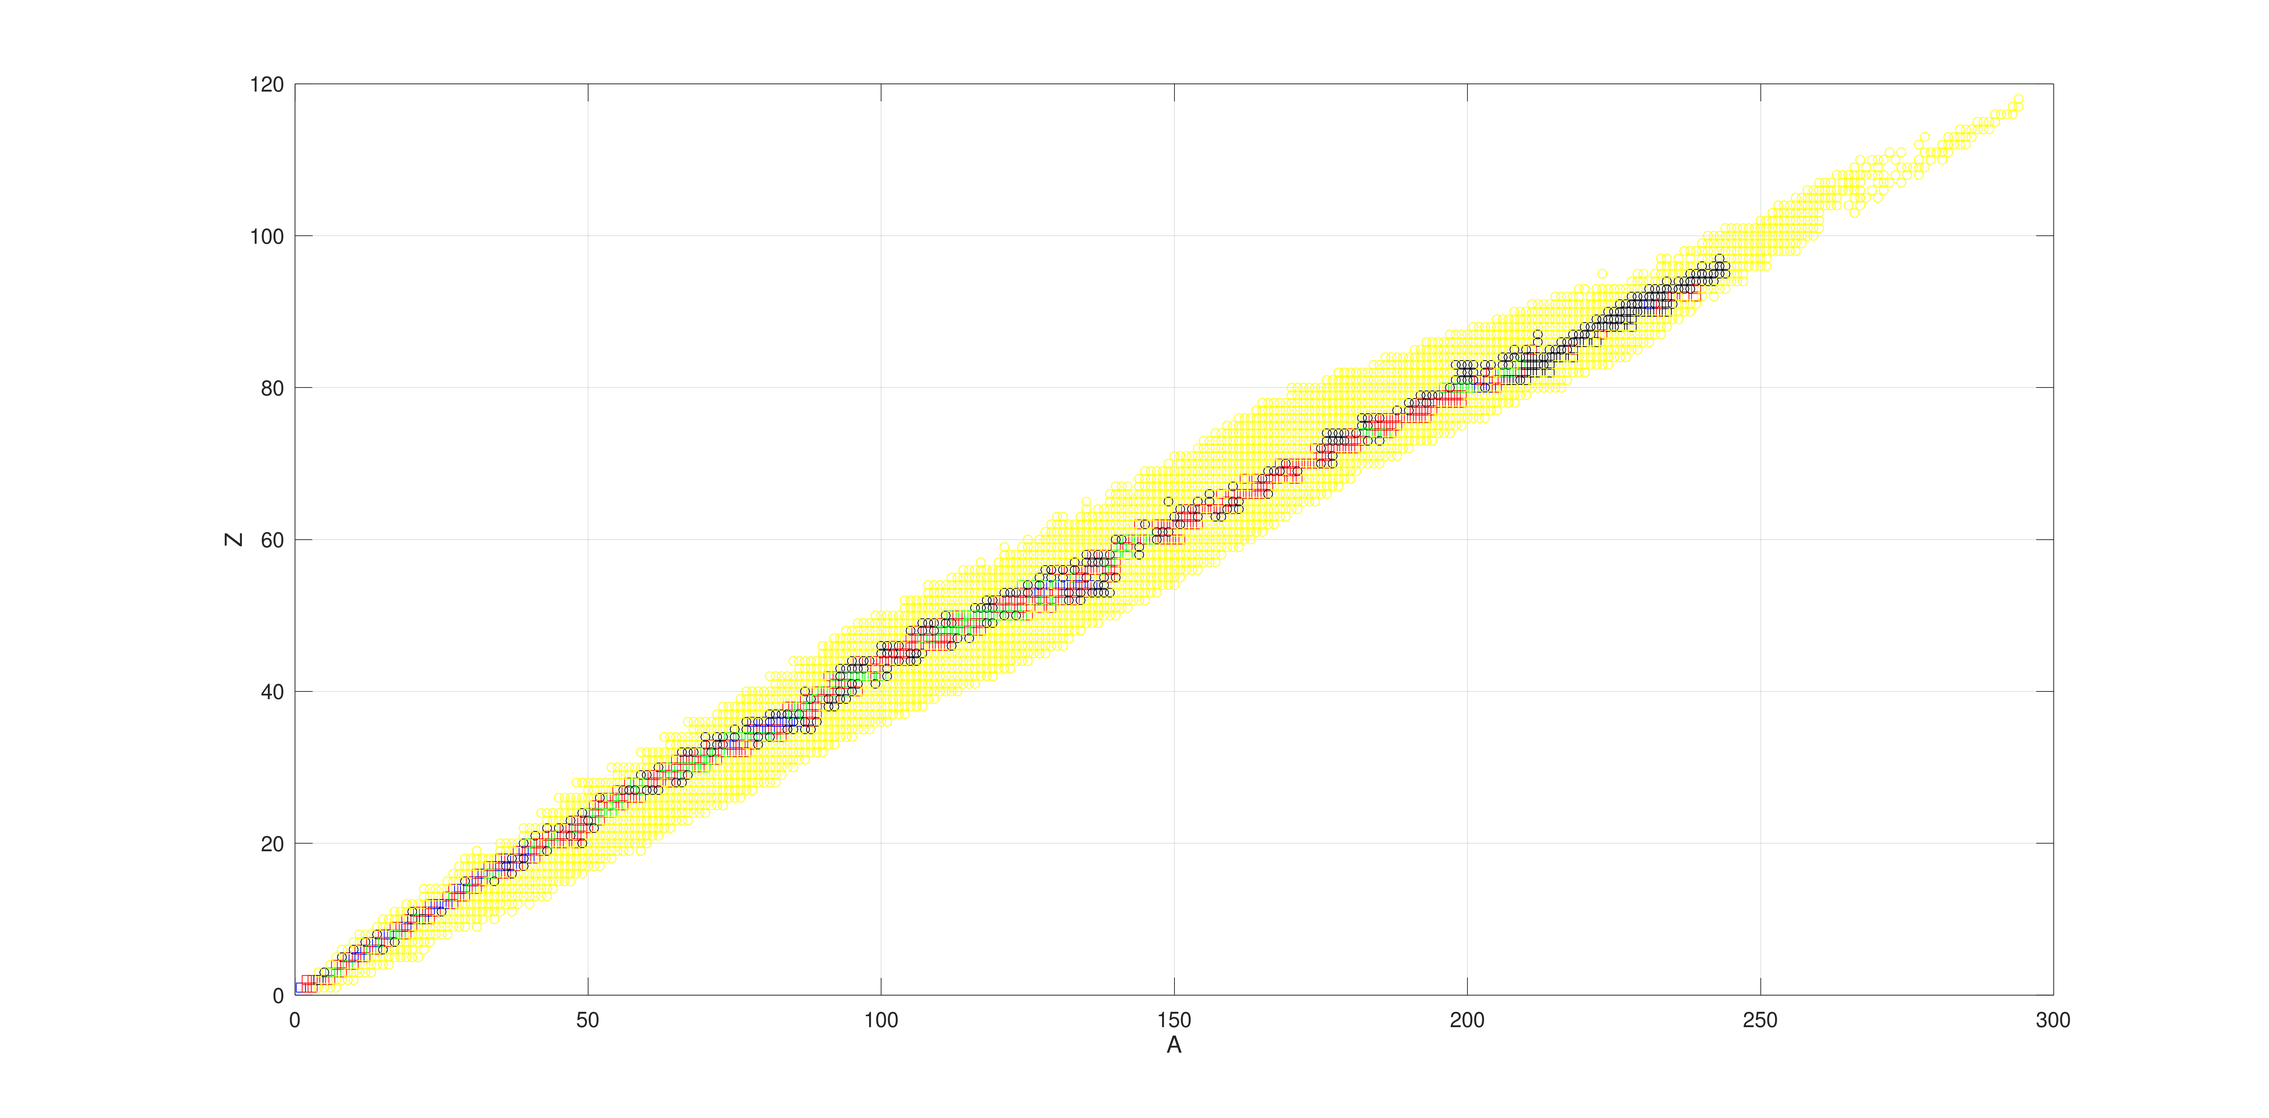
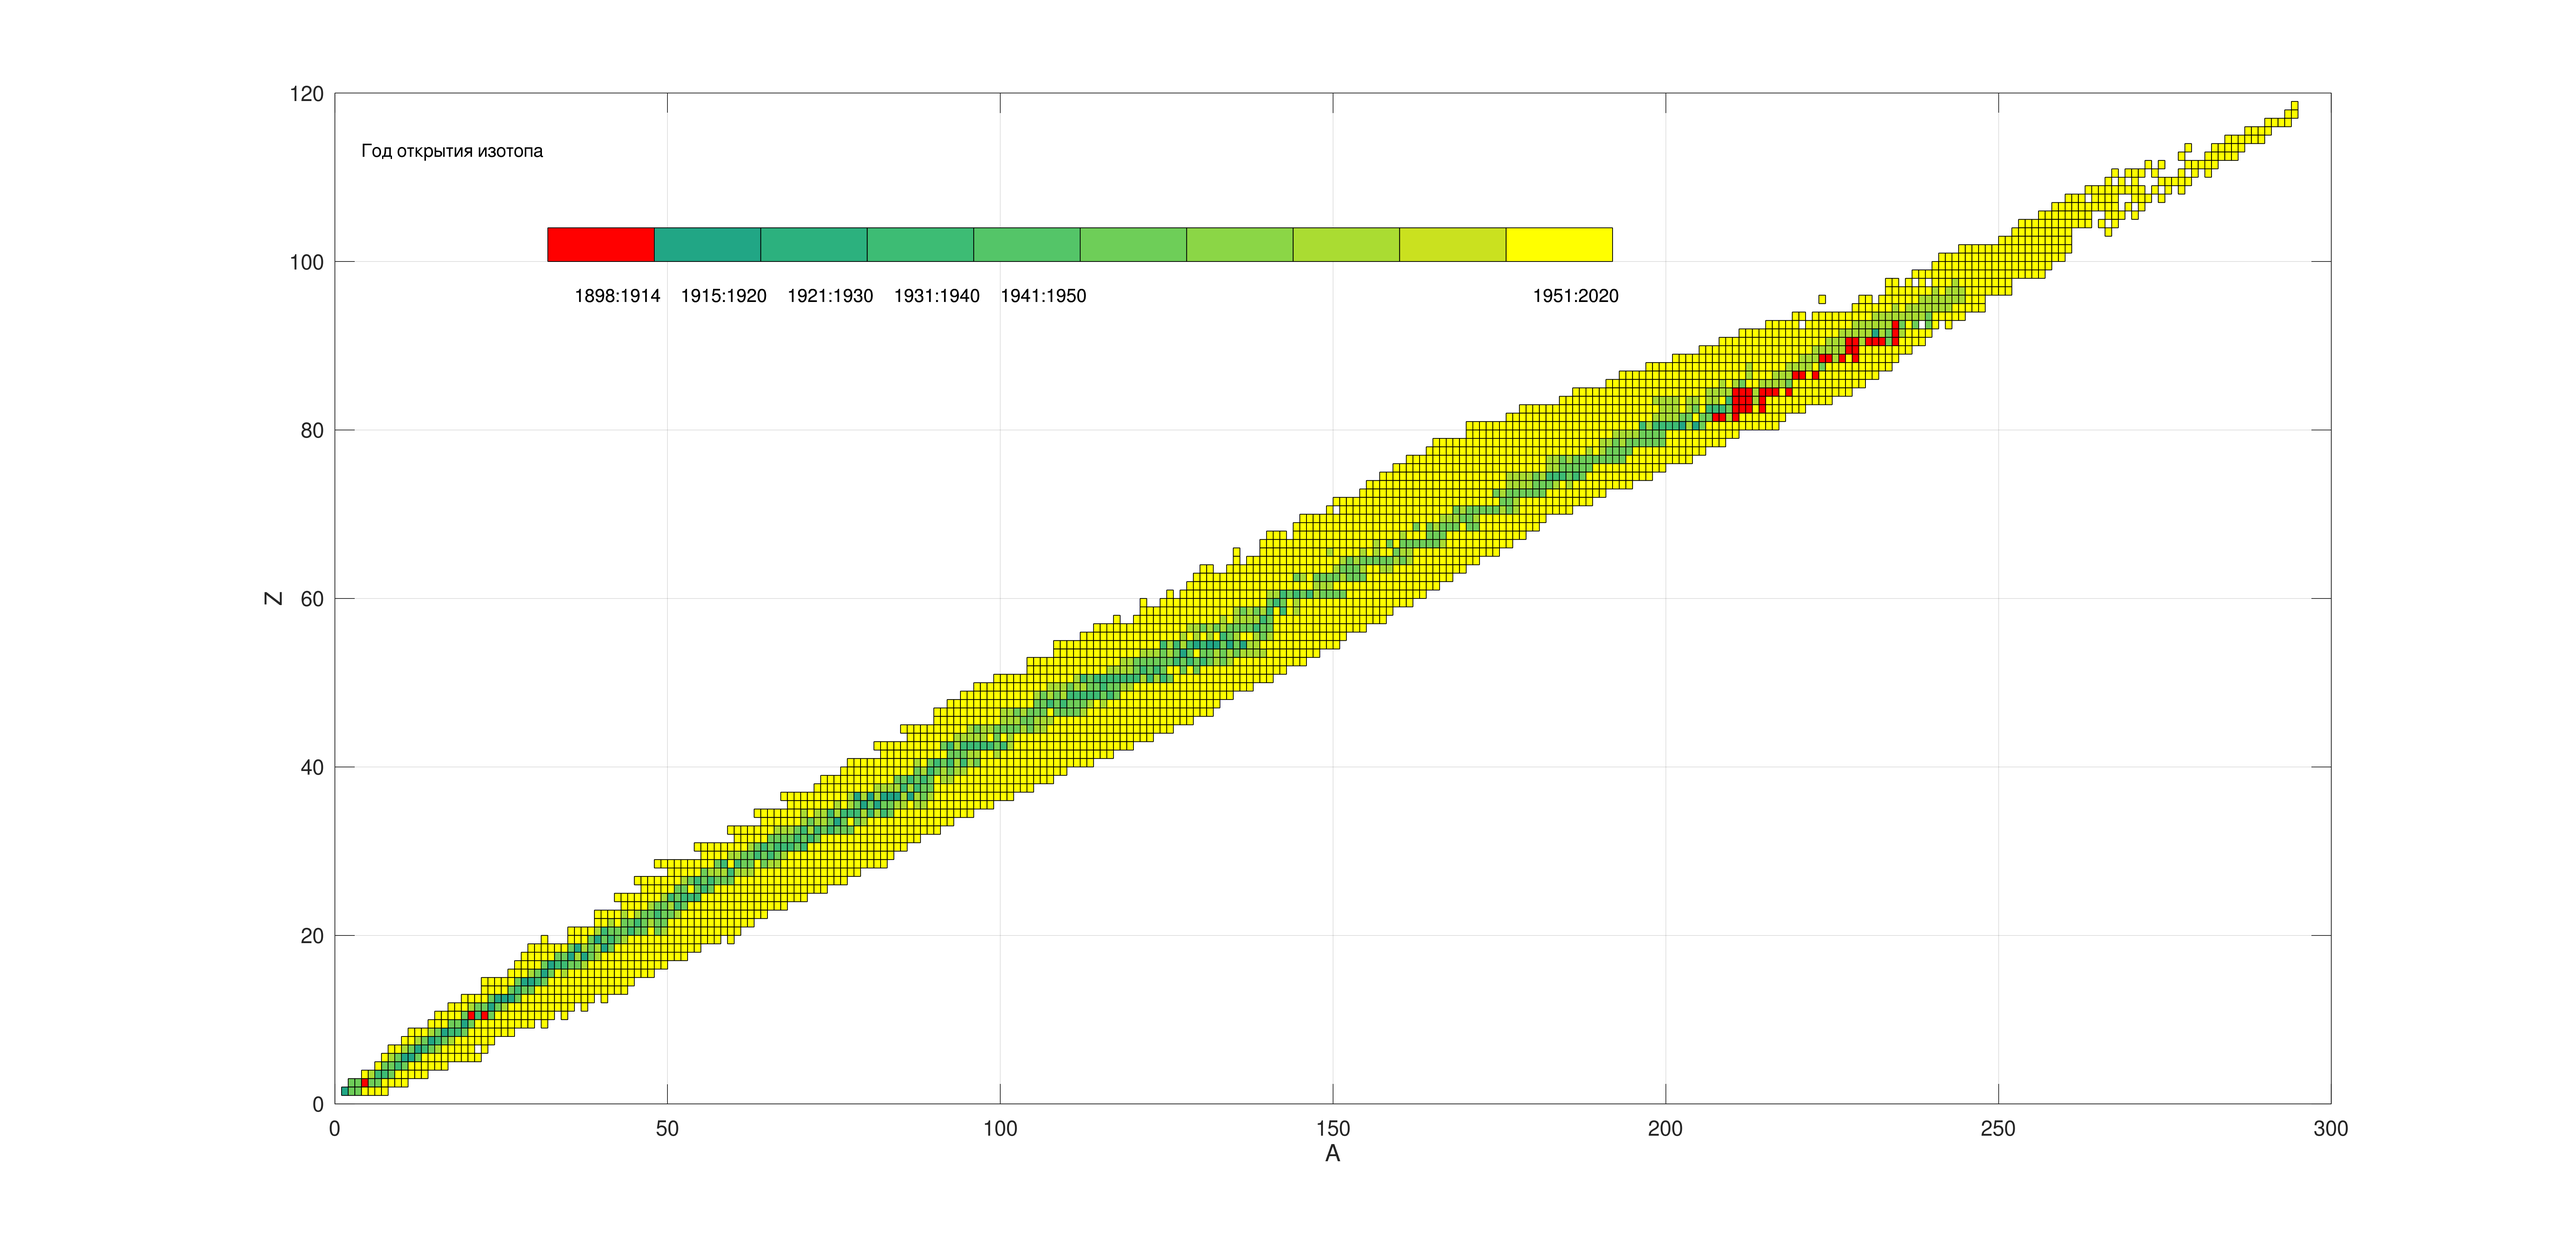
Add files via upload

diff --git a/DiscoveryYearLegend.m b/DiscoveryYearLegend.m
@@ -1,0 +1,186 @@
+% 2025-12-29
+% DiscoveryYearLegend
+% for GetDiscoveryYear.m
+##FirstYY = [1898:1914]
+##YY1910 = [1915:1920]
+##YY1920 = [1921:1930]
+##YY1930 = [1931:1940]
+##YY1940 = [1941:1950]
+##YY1950 = [1951:2020]
+%%%%%%%%%%%%%%%%%%%%%%%%%%%%%% plot Properties %%%%%%%%%%%%%%%%%%%%%%%%%%%%%%%%
+
+gradeNo = 10
+step = fix(length(viridis)/ gradeNo /2)
+ColorArrayAll = viridis;
+ColorArray= zeros(gradeNo,3);
+for ii = 1:gradeNo
+  argcolor = fix(length(viridis) /2) + ii*step;
+  ColorArray(ii,:) = ColorArrayAll(argcolor,:);
+end
+
+
+%
+stepxx = 4*4
+stepyy = 4*4
+
+% 2025-10-21
+LinesTableMax=10
+ElemPeriodChemical = 18
+% Table Size
+maxXX = LinesTableMax*stepxx
+maxYY = 100 %ElemPeriodChemical*stepyy
+%
+
+
+
+
+figure
+hold on
+%%%%%%%%%%%%%%%%%%%% Color Legend %%%%%%%%%%%%%%%%%%%%%%%%%%%%%%%%%%%%%%%%%%%%%
+ww = 4*4
+hh = 4
+
+ccbase = 1
+
+ii = 1
+  cc = ccbase + ii
+    yy = maxYY
+    xx = cc*stepyy
+    h = rectangle('Position', [xx yy ww hh]);
+    ColorNow = [1 0 0];
+    set (h, "FaceColor", ColorNow);
+
+for ii = 2:9
+  cc = ccbase + ii
+    yy = maxYY
+    xx = cc*stepyy
+    h = rectangle('Position', [xx yy ww hh]);
+    ColorNow = ColorArray(ii,:);
+    set (h, "FaceColor", ColorNow);
+ %   ht = text(xx+stepxx/8, yy+3*stepyy/4, '1 (One)');
+## switch ii
+##   case 1   textnow = '1898:1914'
+## case 2 textnow = '1915:1920'
+##      case 3   textnow = '1921:1930'
+##   case 4 textnow = '1931:1940'
+##            case 5   textnow = '1941:1950'
+##   case 6 textnow = '1951:2020'
+## endswitch
+##        ht = text(xx+stepxx/4, yy-1*stepyy/4, textnow);
+##    set (ht, "FontSize", 12);
+end
+
+ii = 10
+  cc = ccbase + ii
+    yy = maxYY
+    xx = cc*stepyy
+    h = rectangle('Position', [xx yy ww hh]);
+    ColorNow = [1 1 0];
+    set (h, "FaceColor", ColorNow);
+%%%%%%%%%%%%%%%%%%%% /Color Legend %%%%%%%%%%%%%%%%%%%%%%%%%%%%%%%%%%%%%%%%%%%%%
+
+%%%%%%%%%%%%%%%%%%%% Text Legend %%%%%%%%%%%%%%%%%%%%%%%%%%%%%%%%%%%%%%%%%%%%%
+
+for ii = 1:10
+  cc = ccbase + ii
+    yy = maxYY
+    xx = cc*stepyy
+##    h = rectangle('Position', [xx yy ww hh]);
+##    ColorNow = ColorArray(ii,:);
+##    set (h, "FaceColor", ColorNow);
+ %   ht = text(xx+stepxx/8, yy+3*stepyy/4, '1 (One)');
+ switch ii
+   case 1   textnow = '1898:1914'
+   case 2 textnow = '1915:1920'
+   case 3   textnow = '1921:1930'
+   case 4 textnow = '1931:1940'
+   case 5   textnow = '1941:1950'
+             case 6   textnow = ''
+             case 7   textnow = ''
+             case 8   textnow = ''
+             case 9   textnow = ''
+   case 10 textnow = '1951:2020'
+ endswitch
+        ht = text(xx+stepxx/4, yy-1*stepyy/4, textnow);
+    set (ht, "FontSize", 12);
+end
+
+ii = -1
+  cc = ccbase + ii
+      xx = cc*stepyy
+         ht = text(xx+stepxx/4, yy-1*stepyy/4, 'Год открытия изотопа');
+    set (ht, "FontSize", 12);
+xlim([0 300])
+ylim([0 120])
+%%%%%%%%%%%%%%%%%%%% /Text Legend %%%%%%%%%%%%%%%%%%%%%%%%%%%%%%%%%%%%%%%%%%%%%
+
+%%%%%%%%%%%%%%%%%%%%%%%%%%% plot Data
+
+ww = 1
+hh = 1
+
+for ii=1:NN%length(Firstind)
+if ( Firstind(ii) ==1 )
+  xx = FirstindN(ii)+FirstindZ(ii);
+  yy = FirstindZ(ii);
+  h = rectangle('Position', [xx yy ww hh]);
+    ColorNow = [1 0 0];
+    set (h, "FaceColor", ColorNow);
+ end
+end
+
+for ii=1:NN%length(Firstind)
+##if ( Firstind(ii) ==1 )
+##  xx = FirstindN(ii)+FirstindZ(ii);
+##  yy = FirstindZ(ii);
+##  h = rectangle('Position', [xx yy ww hh]);
+##    ColorNow = ColorArray(1,:);
+##    set (h, "FaceColor", ColorNow);
+## end
+if ( YY1910ind(ii) ==1 )
+    xx = YY1910indN(ii)+YY1910indZ(ii);
+  yy = YY1910indZ(ii);
+  h = rectangle('Position', [xx yy ww hh]);
+    ColorNow = ColorArray(2,:);
+    set (h, "FaceColor", ColorNow);
+end
+if ( YY1920ind(ii) ==1 )
+    xx = YY1920indN(ii)+YY1920indZ(ii);
+  yy = YY1920indZ(ii);
+  h = rectangle('Position', [xx yy ww hh]);
+    ColorNow = ColorArray(4,:);
+    set (h, "FaceColor", ColorNow);
+end
+if ( YY1930ind(ii) ==1 )
+    xx = YY1930indN(ii)+YY1930indZ(ii);
+  yy = YY1930indZ(ii);
+  h = rectangle('Position', [xx yy ww hh]);
+    ColorNow = ColorArray(6,:);
+    set (h, "FaceColor", ColorNow);
+end
+if ( YY1940ind(ii) ==1 )
+    xx = YY1940indN(ii)+YY1940indZ(ii);
+  yy = YY1940indZ(ii);
+  h = rectangle('Position', [xx yy ww hh]);
+    ColorNow = ColorArray(8,:);
+    set (h, "FaceColor", ColorNow);
+end
+##if ( YY1950ind(ii) ==1 )
+##    xx = YY1950indN(ii)+YY1950indZ(ii);
+##  yy = YY1950indZ(ii);
+##  h = rectangle('Position', [xx yy ww hh]);
+##    ColorNow = ColorArray(10,:);
+##    set (h, "FaceColor", ColorNow);
+##end
+end
+
+for ii=1:NN%length(Firstind)
+if ( YY1950ind(ii) ==1 )
+    xx = YY1950indN(ii)+YY1950indZ(ii);
+  yy = YY1950indZ(ii);
+  h = rectangle('Position', [xx yy ww hh]);
+    ColorNow = [1 1 0];
+    set (h, "FaceColor", ColorNow);
+end
+end
+%

diff --git a/MendeleevTableLegendManual.m b/MendeleevTableLegendManual.m
@@ -1,0 +1,108 @@
+%%%%%%%%%%%%%%%%%%%%%%%%%%%%%% Table Properties %%%%%%%%%%%%%%%%%%%%%%%%%%%%%%%%
+stepxx = 4*4
+stepyy = 4*4
+ww = 4*4
+hh = 4*4
+%
+% 2025-10-21
+LinesTableMax=10
+ElemPeriodChemical = 18
+% Table Size
+maxXX = LinesTableMax*stepxx
+maxYY = ElemPeriodChemical*stepyy
+%
+scomma = strfind(Namearray, ',');
+
+##cc = 4
+##    yy = maxYY
+##    xx = cc*stepyy
+##    h = rectangle('Position', [xx yy ww hh/2]);
+##    ColorNow = ColorVector(1)*ColorBasic;
+##    set (h, "FaceColor", ColorNow);
+## %   ht = text(xx+stepxx/8, yy+3*stepyy/4, '1 (One)');
+##        ht = text(xx+stepxx/8, yy-1*stepyy/4, '1 (One)');
+##    set (ht, "FontSize", 12);
+####    hn = text(xx+stepxx/8, yy+stepyy/4, 'Isotope');
+####    set (hn, "FontSize", 12);
+##cc = 5
+##     yy = maxYY
+##    xx = cc*stepyy
+##    h = rectangle('Position', [xx yy ww hh/2]);
+##    ColorNow = ColorVector(2)*ColorBasic;
+##    set (h, "FaceColor", ColorNow);
+## %   ht = text(xx+stepxx/8, yy+3*stepyy/4, '2 (Two)');
+##         ht = text(xx+stepxx/8, yy-1*stepyy/4, '2 (Two)');
+##    set (ht, "FontSize", 12);
+####    hn = text(xx+stepxx/8, yy+stepyy/4, 'Isotopes');
+####    set (hn, "FontSize", 12);
+##cc = 6
+##    yy = maxYY
+##    xx = cc*stepyy
+##    h = rectangle('Position', [xx yy ww hh/2]);
+##    ColorNow = ColorVector(3)*ColorBasic;
+##    set (h, "FaceColor", ColorNow);
+## %   ht = text(xx+stepxx/8, yy+3*stepyy/4, '3 (Three)');
+##             ht = text(xx+stepxx/8, yy-1*stepyy/4, '3 (Three)');
+##    set (ht, "FontSize", 12);
+####    hn = text(xx+stepxx/8, yy+stepyy/4, 'Isotopes');
+####    set (hn, "FontSize", 12);
+##cc = 7
+##     yy = maxYY
+##    xx = cc*stepyy
+##    h = rectangle('Position', [xx yy ww hh/2]);
+##    ColorNow = ColorVector(4)*ColorBasic;
+##    set (h, "FaceColor", ColorNow);
+##    ht = text(xx+stepxx/8, yy-stepyy/4, '4 (Four)');
+##    set (ht, "FontSize", 12);
+####    hn = text(xx+stepxx/8, yy+stepyy/4, 'Isotopes');
+####    set (hn, "FontSize", 12);
+##cc = 8
+##    yy = maxYY
+##    xx = cc*stepyy
+##    h = rectangle('Position', [xx yy ww hh/2]);
+##    ColorNow = ColorVector(5)*ColorBasic;
+##    set (h, "FaceColor", ColorNow);
+##    ht = text(xx+stepxx/8, yy-stepyy/4, '5 (Five)');
+##    set (ht, "FontSize", 12);
+####    hn = text(xx+stepxx/8, yy+stepyy/4, 'Isotopes');
+####    set (hn, "FontSize", 12);
+##cc = 9
+##     yy = maxYY
+##    xx = cc*stepyy
+##    h = rectangle('Position', [xx yy ww hh/2]);
+##    ColorNow = ColorVector(6)*ColorBasic;
+##    set (h, "FaceColor", ColorNow);
+##    ht = text(xx+stepxx/8, yy-stepyy/4, '6 (Six)');
+##    set (ht, "FontSize", 12);
+##cc = 10
+##    yy = maxYY
+##    xx = cc*stepyy
+##    h = rectangle('Position', [xx yy ww hh/2]);
+##    ColorNow =ColorVector(7)*ColorBasic;
+##    set (h, "FaceColor", ColorNow);
+##    ht = text(xx+stepxx/8, yy-stepyy/4, '7 (Seven)');
+##    set (ht, "FontSize", 12);
+##cc = 11
+##     yy = maxYY
+##    xx = cc*stepyy
+##    h = rectangle('Position', [xx yy ww hh/2]);
+##    ColorNow = ColorVector(8)*ColorBasic;
+##    set (h, "FaceColor", ColorNow);
+##    ht = text(xx+stepxx/8, yy-stepyy/4, '8 (Eight)');
+##    set (ht, "FontSize", 12);
+##cc = 12
+##    yy = maxYY
+##    xx = cc*stepyy
+##    h = rectangle('Position', [xx yy ww hh/2]);
+##    ColorNow = ColorVector(9)*ColorBasic;
+##    set (h, "FaceColor", ColorNow);
+##    ht = text(xx+stepxx/8, yy-stepyy/4, '9 (Nine)');
+##    set (ht, "FontSize", 12);
+##cc = 13
+##    yy = maxYY
+##    xx = cc*stepyy
+##    h = rectangle('Position', [xx yy ww hh/2]);
+##    ColorNow = ColorVector(10)*ColorBasic;
+##    set (h, "FaceColor", ColorNow);
+##    ht = text(xx+stepxx/8, yy-stepyy/4, '10 (Ten)');
+##    set (ht, "FontSize", 12);

diff --git a/GetDiscoveryYear.m b/GetDiscoveryYear.m
@@ -112,7 +112,7 @@ end
 
 figure
 hold on
-for ii=1:length(Firstind)
+for ii=1:NN%length(Firstind)
 if ( Firstind(ii) ==1 )
    pFirst = plot(FirstindN(ii)+FirstindZ(ii), FirstindZ(ii),'sk');
  end
@@ -134,7 +134,7 @@ if ( YY1930ind(ii) ==1 )
 end
 %
 
-for ii=1:length(Firstind)
+for ii=1:NN%length(Firstind)
 ##if ( Firstind(ii) ==1 )
 ##   pFirst = plot(FirstindN(ii)+FirstindZ(ii), FirstindZ(ii),'sk');
 ## end
